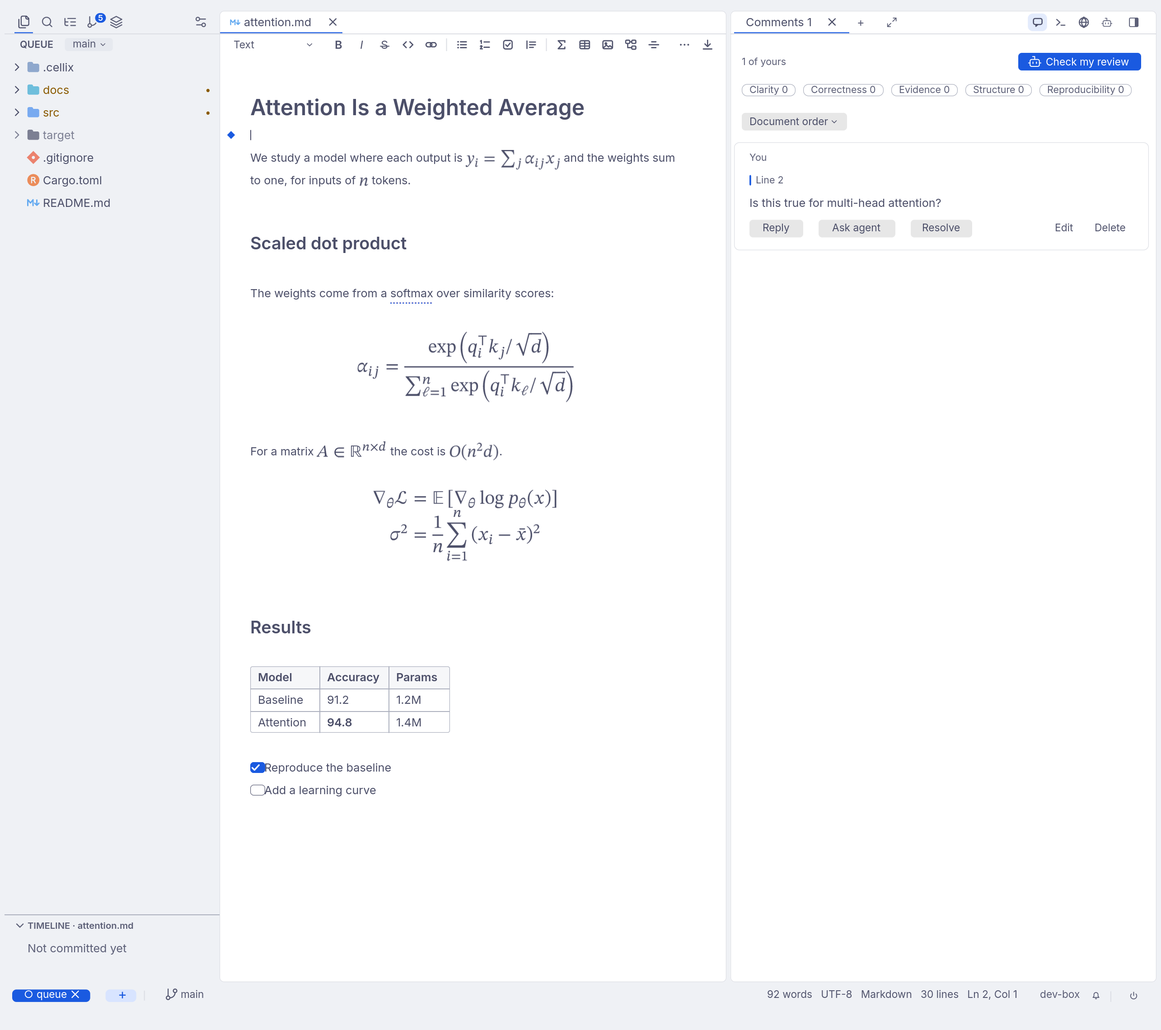
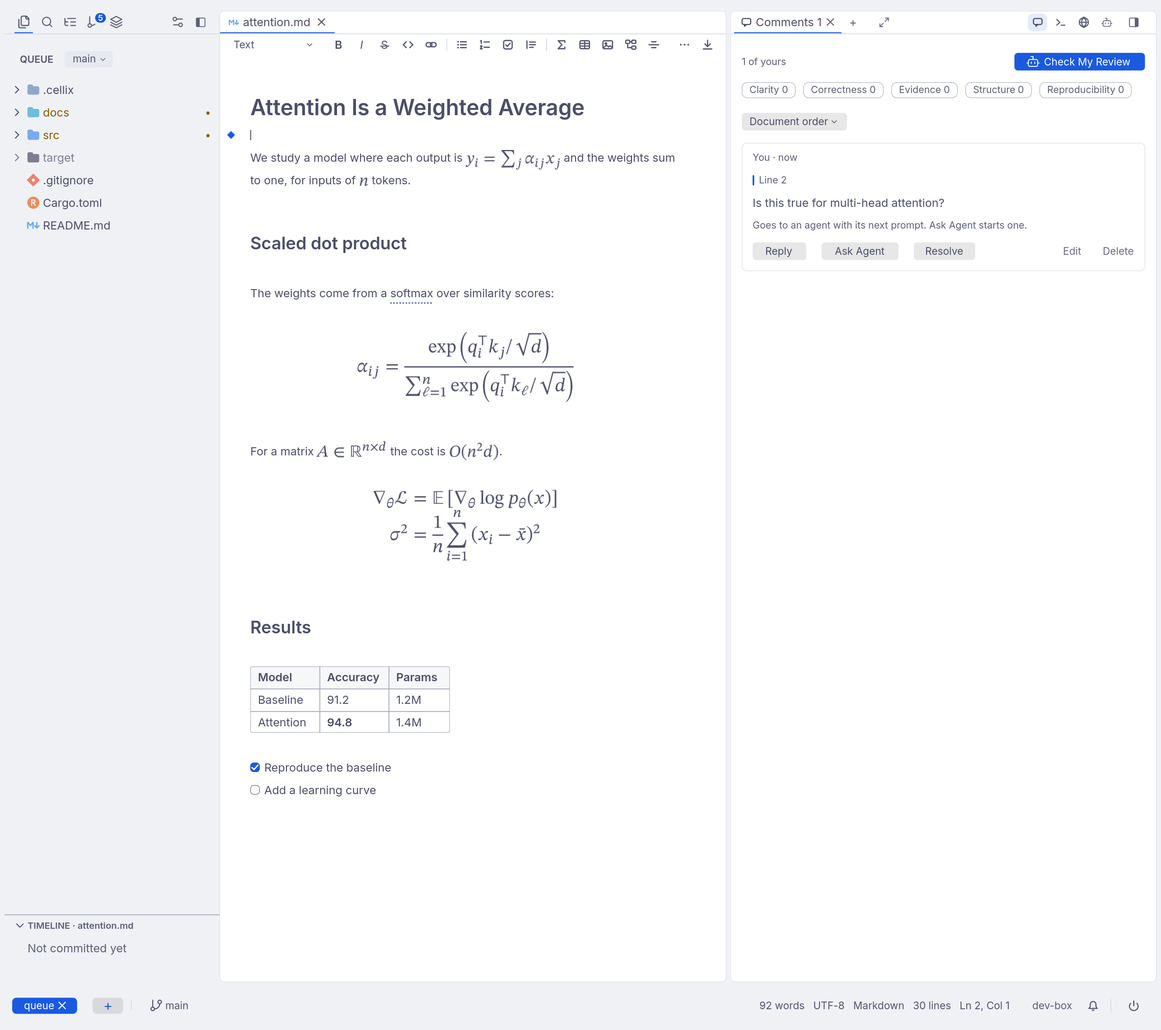
Release 0.11.0
On the user's word before 16 hours away: "Go ahead finish the work, validate and release directly". 0.11.0 is the herdr round (agents among themselves and their helpers, roles, worktrees, spinners, OSC 7501, OpenCode, Copilot CLI and Cursor's agent), the document and comment flow, Shift+click selection and selection that scrolls, Copy Link, herdr's graphite dark theme and the loop's work on speed, with the fixes from two reviews of the whole tour. The version is 0.11.0 everywhere it's written, the changelog's entry is under it, README has the new features and three pictures from the whole tour at c4fab7e, and PROGRESS says what was checked, what's left and what's unverified.

diff --git a/CHANGELOG.md b/CHANGELOG.md
@@ -2,6 +2,88 @@
 
 All notable changes to Cellix. Versions follow semver; each one is on the [releases page](https://github.com/quill-27f/cellix/releases).
 
+## [0.11.0] - 2026-11-19
+
+Agents among themselves: they can start, message and wait for each other, and you see at a glance which one is working, which finished and which needs you. Reviewing a document goes further: your comments reach the agent from a page as from code, a card shows what changed since you wrote it, an agent's suggestion is accepted where it stands, and the review comes out as Markdown. Shift+click selects across a whole document, a link can be copied, and Cellix is calmer: idle, it draws and sends nothing. The dark theme is herdr's graphite.
+
+### Added
+- `cellix agent run`, `send`, `read`, `wait`, `ls` and `stop`: an agent can start another in the side pane with a task, message it, read what it last said, and wait until it stops working. A message waits while you're halfway through typing in that agent, and is never typed into an agent that's asking you something. Between agents a message arrives marked with who sent it. `cellix agent --skill` prints how agents use them, and the Claude Code, Codex and Gemini plugins carry it as a skill.
+- The first time an agent starts another in a folder, Cellix asks you: Allow, Always Allow Here, or Deny. While it asks, that agent's tab and row say it needs you.
+- An agent started by another is its helper. The agent that started it hears when it needs you, fails or ends, can wait for all of its helpers, and takes them with it when it ends. A helper has no tab of its own: it stands under its agent in the Agents list with its own mark (a helper asking you something brings its agent up to Needs you), and a click there opens it live over the pane (peek), with Keep as Tab.
+- Ctrl+click an agent's name in a terminal's text to peek at it.
+- A right click on a link, in a comment or a reply, on a page, in code or in a terminal's output, has Open Link and Copy Link. Copy Link takes the link's real address (a Markdown link's target, not its words) to your clipboard, over SSH too. A link to a file has Open File and Copy Path.
+- Shift+click selects from your last click to here, on any page (Markdown, LaTeX, a notebook, a plan, a transcript, a CSV), in code and in a terminal's output, however far you scrolled in between. Another Shift+click moves the end. Cellix asks the terminal for Shift+click, which Ghostty and xterm otherwise keep for their own selection.
+- Dragging a selection past the top or bottom of a pane scrolls it, faster the further past you hold, and turning the wheel while dragging scrolls with the selection following.
+- A comment waiting for an agent says on its card how it gets there: with your next prompt to Claude Code, Codex or Gemini, or with Ask Agent. "Send N to Claude" in the Comments pane sends everything waiting in one message.
+- An agent can say it addressed a comment, with `cellix reply <id> --done "…"`: the card says "Addressed by Claude" with Resolve and Not Done, and Resolve N addressed settles them together. You resolve, not the agent.
+- When the words you commented on change, the card keeps what you quoted and shows, a word at a time, what changed since; if they're gone, it says so.
+- Comments and replies show when they were made. A press on a kind's pill in the Comments pane shows only that kind; you pick a comment's kind from chips as you write it; and you can reply on an agent's suggestion without keeping it.
+- Next Comment, Previous Comment and Check My Review are in the palette, and a press on a line's ◆ in code opens its comment. In a narrow pane cards stay short until one is lit.
+- A tracked change on a page (Markdown's CriticMarkup, LaTeX's `changes` package) has Accept and Reject chips beside it when the caret or the pointer is on it. The Comments pane counts the suggestions and has Accept All, Reject All and Next.
+- Accept Rewrite takes an agent's rewrite in one step over every line you commented on, as one edit you can undo.
+- Comments: Copy Review as Markdown and Save Review as Markdown… (in the palette, and on a right click on the Comments tab) write the whole review out to share: each file's comments by kind, with their quotes, your words and every reply. Saving writes `review.md` into the project and opens it.
+- With the Comments pane shut, resting the pointer on commented words on a page shows the comment on a card under them, with its last reply; a press on the card opens it in Comments.
+- Review with… (in Review, and the palette's Agent: Review Changes with…) starts an agent on your changes as a reviewer. What it finds shows under the lines it's about, with Keep and Dismiss; a kept one becomes your comment.
+- + after the side pane's tabs drops a menu: Terminal, each agent you have (keys 1–9), and roles. A role is a prompt file in `.cellix/roles` or `~/.config/cellix/roles`; Reviewer and Tester come built in.
+- New Worktree… (on that menu and in the palette) makes a branch of its own for an agent, beside the project, opens it as a workspace and starts the agent in it. A worktree's row in the Agents list has Remove Worktree…, which never deletes the branch.
+- A button at the end of the views hides the sidebar, and the same mark at the start of the tabs brings it back. Ctrl+B still does both.
+- A spinner where something is working: on an agent's tab and its row in the Agents list, on a shell's tab while a command runs, and where Cellix itself waits (a language server indexing, a search, a push or pull, an install). Settings › Appearance › Motion stills it, and inside Claude Code's pane, where each turn would cost a new picture, it stands still.
+- Any program in the side pane can say how it is with one line, the open OSC 7501 status sequence (`printf '\e]7501;state=blocked:app=my-agent\e\\'`), and shows as an agent does: working, needs you, done.
+- OpenCode, GitHub Copilot CLI and Cursor's agent CLI connect as Claude Code, Codex and Gemini do: `cellix setup opencode|copilot|cursor` (and `--remove`). Cursor's agent has no hook for asking you something, so it never shows as needing you.
+- `CELLIX_PROF=1` writes a line a second of what Cellix's loop did, and `harness/x perf` measures it against the last release.
+
+### Changed
+- The dark theme is herdr's graphite: near-black greys, herdr's softer blue, and its colours for working, needs you and done. The frame still takes your terminal's background, so on a terminal whose background isn't #101114 every surface keeps graphite's steps from that colour instead. The light theme is unchanged.
+- An agent's tab has its mark, its own name (from the agent's title, or the one you give it with Rename), its context, and what it's doing: a spinner while it works, a dot when it needs you or finished while you were elsewhere. In a narrow pane a tab keeps its mark and its state.
+- A shell's tab is named after the program running in it, with a spinner once it's run a second.
+- The Agents list stands by what needs you: Needs you, Done, Working and Idle, each with how long since it changed.
+- The marks for agents are Cellix's own: a burst for Claude Code, a hexagon for Codex, a star for Gemini, a prompt for a shell.
+- The mouse wheel over a row of tabs that don't all fit moves it sideways.
+- Idle, Cellix draws and sends nothing, and wakes only when something is due (twice a second, where it looked twenty times); it used to lay the window out and send a little twice a second, which over SSH woke tmux and your terminal each time. A program printing in a tab you can't see no longer redraws the window. Output on screen is drawn as it comes, at most once a frame, and what you type in the side pane is echoed at once: about a frame per key, where it was two or three.
+- In Ghostty on the same machine, pictures go as files Ghostty reads, about a twentieth of the bytes. `CELLIX_TILE_FILES=0` turns it off.
+- On a terminal without pictures, the cursor is hidden while a frame is written, so it doesn't run across the screen.
+- The narrowest sidebar is 23 columns, to hold every view beside its button.
+- In the dark theme, a picked row is tinted with the accent, as in the light one, and plain hovering stays grey; Find's other matches are stronger and the one you're on has a ring of its own.
+- Every action that isn't the main one is one quiet button with a hover you can see, and a row of choices (in Settings, in a dialog) is one track.
+- Every menu has the same half row over and under its rows, and hangs 8 px under the line it drops from. Every menu is one colour, over a card too; a submenu's first row is level with the row that opened it; Comments' order menu drops from its button; and menus, palettes and tips stand clear of the lines round a file.
+- Every tab in the side pane has a mark, the Inbox, Comments, Preview, Problems and Log tabs too, and a program that names itself (`app=deploy`) names its tab. In a narrow pane the tabs behind the one in front are cut to their marks before the + after them goes, and their names come back as room allows. Editor, Task, Settings and side pane tabs share one shape: the same room before the mark, before the × and after it. The workspace tiles, the workspace picker and peek use the tabs' marks, and Cursor's agent has a mark of its own.
+- A selection on a page reads as one shape: its lines touch, it runs under inline code and highlights, a list's bullets and numbers and a paper's section numbers are inside it, and a table's cells taken whole are filled from line to line. The buttons for a selection stand over its first line (over its paragraph or table when it starts inside one), clear of the words.
+- Dialogs and cards have even room round them and before their buttons, and a box (the new file prompt, the branch chip, peek, Show Source, a button on a row) holds its words in its middle.
+- A comment card has the same room on every side and starts at the pane's text edge, as the Agents list does. An agent's rewrite stands in a box of its own over quiet buttons, a reply sits under a hairline, and where Edit and Delete don't fit, ⋯ holds them. An agent's suggestion is a card with a dashed edge; the accent is the lit card's. Buttons on cards are named as in the palette: Ask Agent, Check My Review, Not Done.
+- A kind's pill in the Comments pane is an outline, and the one you picked is filled, with × to show every kind again; the head says "Evidence · 1 of 4". An empty list with suggestions in the text says how many and that Next goes to each, and a long list has a scrollbar.
+- What an agent took out is drawn in one colour for removed words everywhere: on a card's "Words gone" and in what changed.
+- The Task page's divider is one line and its step control stands centred between its arrows.
+- Nothing stands within 8 px of a line: the Find bar over a terminal, Show Source, tooltips, a tab's menu, the header chips in the docked pane, the conflict header's buttons.
+
+### Fixed
+- Quitting Cellix ended it with a crash: what came in with the quit (the release of the click on Stop and Quit, say) went to the workspace that had just closed. Your work was saved first, and the message went with the screen, so it went unseen, but Cellix ended with code 101. It ends with 0.
+- Ctrl+click on a web address in a terminal's output looked for a file of that name. It opens the address.
+- A selection in a terminal's output stayed on the same screen rows as the output scrolled. It stays on its words.
+- A selected formula on a page wasn't drawn selected, and a paper's selected words were counted by Markdown's rules ("75 of 58 words").
+- Letting go of a drag over the status bar left the selection stuck.
+- Send Comments to Agent sent only comments on code: on a page it said there were none. It sends a document's comments too, and suggestions you kept.
+- Inside Claude Code, the count of comments waiting and `/cellix-send` left out a page's comments and the suggestions you kept: with only those waiting, `/cellix-send` said none were. They count and send them now, through `cellix comments --waiting`, which lists everything no agent has had yet.
+- A comment on words across lines held only the first line: Apply replaced that line with the whole rewrite, and only it was tinted. A comment holds the whole selection.
+- When an agent reworded commented words, the card showed the new words as if you'd commented on them.
+- Check My Review sent your comments to the agent twice; "Waiting for…" could name an agent other than the one asked; and the coverage strip counted suggestions you hadn't kept.
+- In a paper, a `\replaced` whose words ran onto another line showed a stray brace and lost its new words on the page.
+- With two agents reporting at once, a workspace's tile could say "done" while one of its tabs needed you. The tile, the Agents badge and the status bar count what every tab shows.
+- A rule across a page was drawn in two tones; it's one hairline. A reviewer's note beside a line stood against the text in a box of its own; it stands apart, with the comment's mark and tint. A one-line preamble said "1 lines".
+- A task's box on a page was a wide rectangle with its words against it. It's square, with room before the words.
+- `->` in a code snippet written in the interface's font showed as an arrow. It shows as typed.
+- A long path is cut at its start (`~/…/parent/name`), so its name stays; cut rows in Compare with and in search results end in "…" clear of their band.
+- An install card could run out of the side pane, and Find over a list left an empty slot in its box and a stray line under the pane.
+- A message in the status bar was cut short though the bar had room for it, and the word count said "1 words".
+- The Git graph could put the branch you have checked out in its second lane when commits were made in the same second. Its first lane is always the checked-out branch's.
+- A terminal's text ran to within a few pixels of its pane's right edge.
+- The same file listed twice in Agent Context showed as picked twice.
+- A large paste into a program that wasn't reading (a shell running a long command) held up all of Cellix until it read. Writes to programs wait their turn now, and a viewer that stops reading holds up neither the program nor anyone else watching it.
+- A program that ended in the middle of a screen update left its pane frozen. The update ends after 150 ms.
+- Moving the pointer steadily kept Cellix from noticing a file changed on disk.
+- Turning smooth scrolling back on over SSH lost the slower pace scrolling keeps there.
+- While an agent needed you, the file's details at the end of the status bar turned the colour that says so.
+- Tests started by `harness/x` no longer leave sessions in your cache, or programs running after them.
+
 ## [0.10.2] - 2026-11-17
 
 The new look, tightened after a first day in a real window: words in the middle of what holds them, less left over at the foot, and one measure for cards and buttons on Airy rows.

diff --git a/README.md b/README.md
@@ -29,16 +29,19 @@ tmux to keep it running there.
   the laptop or lose the connection and they carry on; the next `cellix` has them back, with your
   tabs and unsaved edits, and a bar along the bottom says which agent is working, done or waiting
   for you. After a reboot, Resume picks up each agent's own conversation.
+- **Agents that work together.** An agent can start another as its helper, message it and wait
+  for it, with `cellix agent`; you see each one's state on its tab, and the Agents list puts the one
+  that needs you first. A reviewer agent's findings arrive as comments you keep or dismiss.
 - **Review before it lands.** Plans wait for your Approve, edits stack hunk by hunk, each agent turn
   is checkpointed, and one changed line can be put back without touching the rest.
 - **Talk about anything you can see.** A sentence, a formula, a diagram, a cell of a table or a spot
   in a PDF: select it, comment, and the agent gets the file, the line and the quote.
 - **Documents are pages, not markup.** Markdown and LaTeX open typeset, with math, diagrams,
   citations, Track Changes and offline spelling, while the file stays plain text for git.
-- **A second reader for your review.** Check my review has the agent weigh each of your comments and
+- **A second reader for your review.** Check My Review has the agent weigh each of your comments and
   suggest the ones you missed, without editing a word.
-- **Or inside your agent.** A pane inside Claude Code, plugins for Codex and Gemini CLI, and
-  the same thing over SSH and in tmux. One static binary in Rust, drawing real pixels in Ghostty, Kitty
+- **Or inside your agent.** A pane inside Claude Code, plugins for Codex, Gemini CLI, OpenCode,
+  Copilot CLI and Cursor's agent, and the same thing over SSH and in tmux. One static binary in Rust, drawing real pixels in Ghostty, Kitty
   and WezTerm, and text cells everywhere else.
 
 ## Install
@@ -115,7 +118,7 @@ edits what you edit and git sees every change.
 ## Review a document or paper, with the agent as your second reader
 
 You read and you comment; the agent checks your review and points at what you missed. Select any
-words and Comment as you go, then press **Check my review** in the Comments pane.
+words and Comment as you go, then press **Check My Review** in the Comments pane.
 
 - **Each of your comments gets a verdict.** The agent answers under it, *agrees* or *pushes back*,
   with why, so a weak point is caught before it reaches the author.
@@ -140,7 +143,7 @@ words and Comment as you go, then press **Check my review** in the Comments pane
 
 - **You settle what's done.** An agent that did what a comment asks says so with
   `cellix reply <id> --done "what it did"`, and the card says *Addressed by Claude*, with
-  **Resolve** and **Not done**; **Resolve N addressed** settles them all.
+  **Resolve** and **Not Done**; **Resolve N addressed** settles them all.
 
 ## Review what it did
 
@@ -172,7 +175,8 @@ beside your file.
 
 The window is your terminal's own colour, and the file and the side pane are sheets on it. The
 views (files, search, outline, source control, agent context, and Settings at the end) run across
-the top of the sidebar. Every file has an icon of its kind, in the tree and on its tab. One bar at
+the top of the sidebar, and the button after them hides it; the same mark at the start of the tabs
+brings it back. Every file has an icon of its kind, in the tree and on its tab. One bar at
 the foot holds your workspaces, the branch, the file's details, the bell, and the button that
 quits. In Ghostty and kitty a row has more air than a line of your terminal, and your terminal's
 own settings aren't touched: Row height in Settings is Airy unless you choose Comfortable or the
@@ -326,9 +330,9 @@ pointer, and a PDF or image in the side pane's Preview takes one too. Comments a
 kept in `.cellix/threads.json`. Ask Agent sends yours to the agent with its file, line and quote, the
 agent answers with `cellix reply <id> "text"`, and the answer lands under your question. A comment
 not sent yet says on its card how it gets there: with your next prompt to Claude Code, Codex or
-Gemini CLI, whose hooks hand it over, or now with Ask agent. **Send Comments to Agent** sends
+Gemini CLI, whose hooks hand it over, or now with Ask Agent. **Send Comments to Agent** sends
 everything waiting, on code and on pages, in one message, as does **Send 3 to Claude Code** under
-Check my review. Each comment and answer says how long ago
+Check My Review. Each comment and answer says how long ago
 it was written, and a suggestion can be answered with **Reply** without keeping it. A comment is
 about all you selected, across lines; when an agent rewords those words the card keeps what you
 commented on and says *Changed since your comment*, and a click on that shows the change word by
@@ -408,6 +412,47 @@ that don't resolve, memory past the 200 lines or 25 KB that load, and hooks whos
 Every row opens its file to edit. It reads Claude Code, Codex and Gemini CLI.
 
 Getting Started, in the command palette or on the empty window, is a short guide.
+
+## Agents among themselves
+
+An agent's tab in the side pane says what it's doing: its mark, the name it gives itself (or the one
+you give it with Rename on the tab's menu), how full its context is, and a spinner while it works or
+a dot when it needs you or finished while you were looking elsewhere. A shell's tab is named after
+the program running in it, and turns while it runs. The Agents list stands by what needs you:
+Needs you, Done, Working and Idle, each agent with how long since it changed.
+
+The + after the tabs starts things: a terminal, any agent you have (keys 1–9), or a role. A role is
+a prompt for an agent, as a file in `.cellix/roles` or `~/.config/cellix/roles` with the agent named
+at its top; Reviewer and Tester come with Cellix. New Worktree… makes a branch of its own for an
+agent beside the project, opens it as a workspace and starts the agent there.
+
+Agents can run agents. In a terminal of the side pane, an agent can use:
+
+```bash
+cellix agent run codex --name reviewer "Review the diff in src/queue.rs"
+cellix agent send reviewer "Look at the error path too"
+cellix agent wait reviewer        # until it stops working, or --children all
+cellix agent read reviewer        # what it last said
+cellix agent ls                   # the agents here, as JSON
+cellix agent stop reviewer
+```
+
+`cellix agent --skill` prints how an agent should use these, and the Claude Code, Codex and Gemini
+plugins carry it as a skill. The first time an agent starts another in a folder, Cellix asks you.
+A message waits while you're typing in the agent it's for, and is never typed into one that's
+asking you something. An agent started by another is its helper: the one that started it hears when
+it needs you, fails or ends, and a helper ends with it. Helpers have no tabs: each stands under its
+agent in the Agents list, and a click opens it live over the pane, with Keep as Tab. Ctrl+click an
+agent's name in a terminal does the same.
+
+Review with… in Review starts an agent on your changes as a reviewer. What it finds stands under
+the lines it's about, with Keep and Dismiss, and what you keep becomes your comment.
+
+Any program can show its state the same way, with the open OSC 7501 status sequence:
+
+```bash
+printf '\e]7501;state=blocked:app=my-script\e\\'   # also working, done, idle, clear
+```
 
 ## Source Control
 
@@ -500,6 +545,8 @@ If pixels look wrong or scrolling is heavy, these commands help:
 ```sh
 tmux show -g allow-passthrough   # should say on
 CELLIX_TIER=cells cellix         # text cells only, for one run
+CELLIX_TILE_FILES=0 cellix       # in Ghostty, pictures in the stream rather than as files
+CELLIX_PROF=1 cellix             # a line a second of what Cellix did, in ~/.cache/cellix/prof.log
 ```
 
 A thin line under every row means tmux doesn't know how many pixels a cell has, and assumes 16 by
@@ -581,6 +628,13 @@ for your comments as JSON, or `cellix open <file>` to show you something.
 The IDE connection follows what Claude Code's VS Code extension does, which isn't a
 published protocol, so a Claude Code update could change it. It was built against 2.1.309.
 
+### OpenCode, Copilot CLI and Cursor's agent
+
+`cellix setup opencode`, `cellix setup copilot` or `cellix setup cursor` connects each through its
+own hooks or plugin, and `--remove` takes it back. They say when they're working, done or need you,
+and Resume finds their sessions. Cursor's agent has no hook for asking you something. None of the
+three has been tried on the real tool yet.
+
 ### Codex and Gemini CLI
 
 Settings, Integrations has an Install button for each, and the plugins' source is under
@@ -609,12 +663,13 @@ saved to `~/.config/cellix/settings.json`. You can also edit that file, or
 ```
 
 `keymap` is `simple`, `vim` or `neovim`, which runs your own `nvim` and config behind the
-editor. `theme` is `auto`, `dark` or `light` (Catppuccin Latte's surfaces, with text and code deepened to read clearly), and `auto` also matches your
+editor. `theme` is `auto`, `dark` (herdr's graphite: near-black greys and a soft blue) or `light` (Catppuccin Latte's surfaces, with text and code deepened to read clearly), and `auto` also matches your
 terminal's background. Either theme sets its frame on your terminal's own background, so the window's
 padding shows no seam; on a light terminal that makes the light theme a shade paler than Latte. `tier` is `direct`, `placeholder` or `cells`. `row_height` is `airy` (a row 1.4 times your terminal's line, which is what a new install has),
 `comfortable` (1.2 times) or `terminal`; it takes effect in Ghostty and kitty outside tmux, where Cellix can lay out rows of its own, and
 everywhere else a row is the terminal's line. On rows of its own the wheel moves a row at a time. `smooth_scroll: false` makes the
-wheel jump by lines, for a slow link, and `minimap: false` hides the minimap. `word_wrap`,
+wheel jump by lines, for a slow link, and `minimap: false` hides the minimap. `motion: false`
+stills the spinners (Motion under Settings › Appearance). `word_wrap`,
 `sticky_scroll` (with `sticky_scroll_lines`, 5 unless set), `bracket_pairs` and `inlay_hints` turn
 those on or off for code. `reading_width: false` lets a page's text run the whole width of its pane
 rather than keep to 88 columns; it's Reading width under Settings › Editor.

diff --git a/docs/PROGRESS.md b/docs/PROGRESS.md
@@ -3792,3 +3792,16 @@ From the release check of 0.11.0 (R1, `m1-agent-tab-done`).
 - A spinner keeps its place at the tab's end, as the tab's last ink 16 px from it, and the line after it is where it was: `the_line_between_two_tabs_cut_short_has_the_same_air_either_side` is unchanged and passes.
 - Test: `a_dot_on_a_tab_behind_follows_its_name` (at every width that shows the whole name, 8 to 14 px from its end to the dot's ink, and the next tab's mark further off than that). On the code before it fails at 31 px.
 - Not done from that check: on the tab in front the needs-you dot stands at the start of the spinner's slot, 24 to 28 px before the × against a spinner's 19.
+
+## Release 0.11.0 (2026-11-19)
+
+- On the user's word before 16 hours away: "Go ahead finish the work, validate and release directly". 0.11.0 is the herdr round (agents among themselves and their helpers, the + menu, roles, worktrees, spinners, OSC 7501, OpenCode, Copilot CLI and Cursor's agent), the document and comment flow, Shift+click selection and selection that scrolls, Copy Link, herdr's graphite dark theme and the loop's work on speed; then two ui-expert reviews of the whole tour and their fixes.
+- The release review of the whole tour at `3d90afc` (`RELEASE-FIXES`: A1–A8, B1–B7, C1–C5) was fixed in three tracks, 16 commits; see their entries above. The whole tour at `c4fab7e`: 285 scenes, 284 reached; `83-git-timeline` waited for a commit's whole message, which the screen's text now cuts by a letter, and waits for its heading now. Three ui-expert passes over the 153 scenes that changed found one regression from the fixes (R1, a dot on a tab behind, fixed above) and no other blocker. The tab and paper scenes were taken again at `a3a0f9b`: `m1-agent-tab-done`'s dot stands after "pricing page".
+- Harness: a resize in `term.py` waits for Cellix's next frame. Under a load of 22, `tiles_go_as_files_to_ghostty_here_and_look_the_same_for_fewer_bytes` counted 0 bytes for its resize, its "until" having passed on the old frame.
+- Flaky under load, not changed: `an_idle_window_wakes_only_when_something_is_due` failed once at 2.06 wakes a second (one wake more than the tick's in five seconds, against 2.01), with another project's containers taking six cores; it passed in the verifies before and after. Where that wake came from isn't known.
+- The LaTeX drawings in `79-paper-theorems`, `80-paper-drawn`, `82-paper-changes*` and `163-reading-width-paper` stayed "Drawing with LaTeX…" in the whole tour and when taken again: `~/Library/Caches/Tectonic`, which the tour links into its stand-in home, was gone by 07:00 (`~/Library/Caches` changed at 03:09; what removed it isn't known, and a test of the tour's cleanup on Python 3.9 left a linked folder whole). Tectonic 0.17's own cache, `~/Library/Caches/TectonicProject.Tectonic`, is there and not linked. No drawing code changed since `3d90afc`, whose tour drew them. Not fetched again, as that's a download.
+- `harness/x perf` against 0.10.2, idle: 0.15 % CPU, no bytes and no frames a second, against 0.45 %, 43 bytes and 1.95 frames. The busy cases weren't measured: the writer printed a fifth of its lines for both binaries under the night's load.
+- Left, the user's call: A4 (a tab cut to its mark in three columns is centred, or its chip 8 px from the pane's line, not both; both written up above).
+- Left, polish, from the release check: the selection bar 5 to 45 px from its selection (P1); words without tails high in row buttons and low in 40 px card buttons (P2); Show Source 2 px over the scrollbar (P3); Check My Review and Accept Rewrite both filled (P4); the logout card's box 7 px inside the card (P5); cards over the pane 79 px over its foot (P6); `64`'s tip cut short (P7); an insertion's underline under its trailing space (P8); "Spaces: 4" gone while rust-analyzer says "fetching" (P9); a row button's words 3 px over the row's (R2); Gemini cut to its mark while Claude keeps "pricing p…" (R3); the terminal's cursor over a tip's top (R4); `97`'s drop bar on the pane's border (R5); `m4`'s line 37/32 px; the + 34 px from ⤢ against 39 from the tab before; "2 more" chips 35 px tall; peek's header 24/46 px; light tabs behind nearly the front's colour; the needs-you dot on the tab in front; sticky scroll losing `match`'s header at one offset; the drawing note under a source box's scrollbar, and "Drawing with LaTeX…" with no time limit. From before: B5's hairline, B7's table picker label, the Format submenu and the reviewer note's tint, the graph's ref chips, T8, T9's transcript chip, C14, S6.
+- Unverified: nothing has been tried in a real Ghostty (the picture files, typing, the new look); OpenCode, Copilot CLI and Cursor's agent only with stand-ins.
+- Next: the user's look at 0.11.0.
